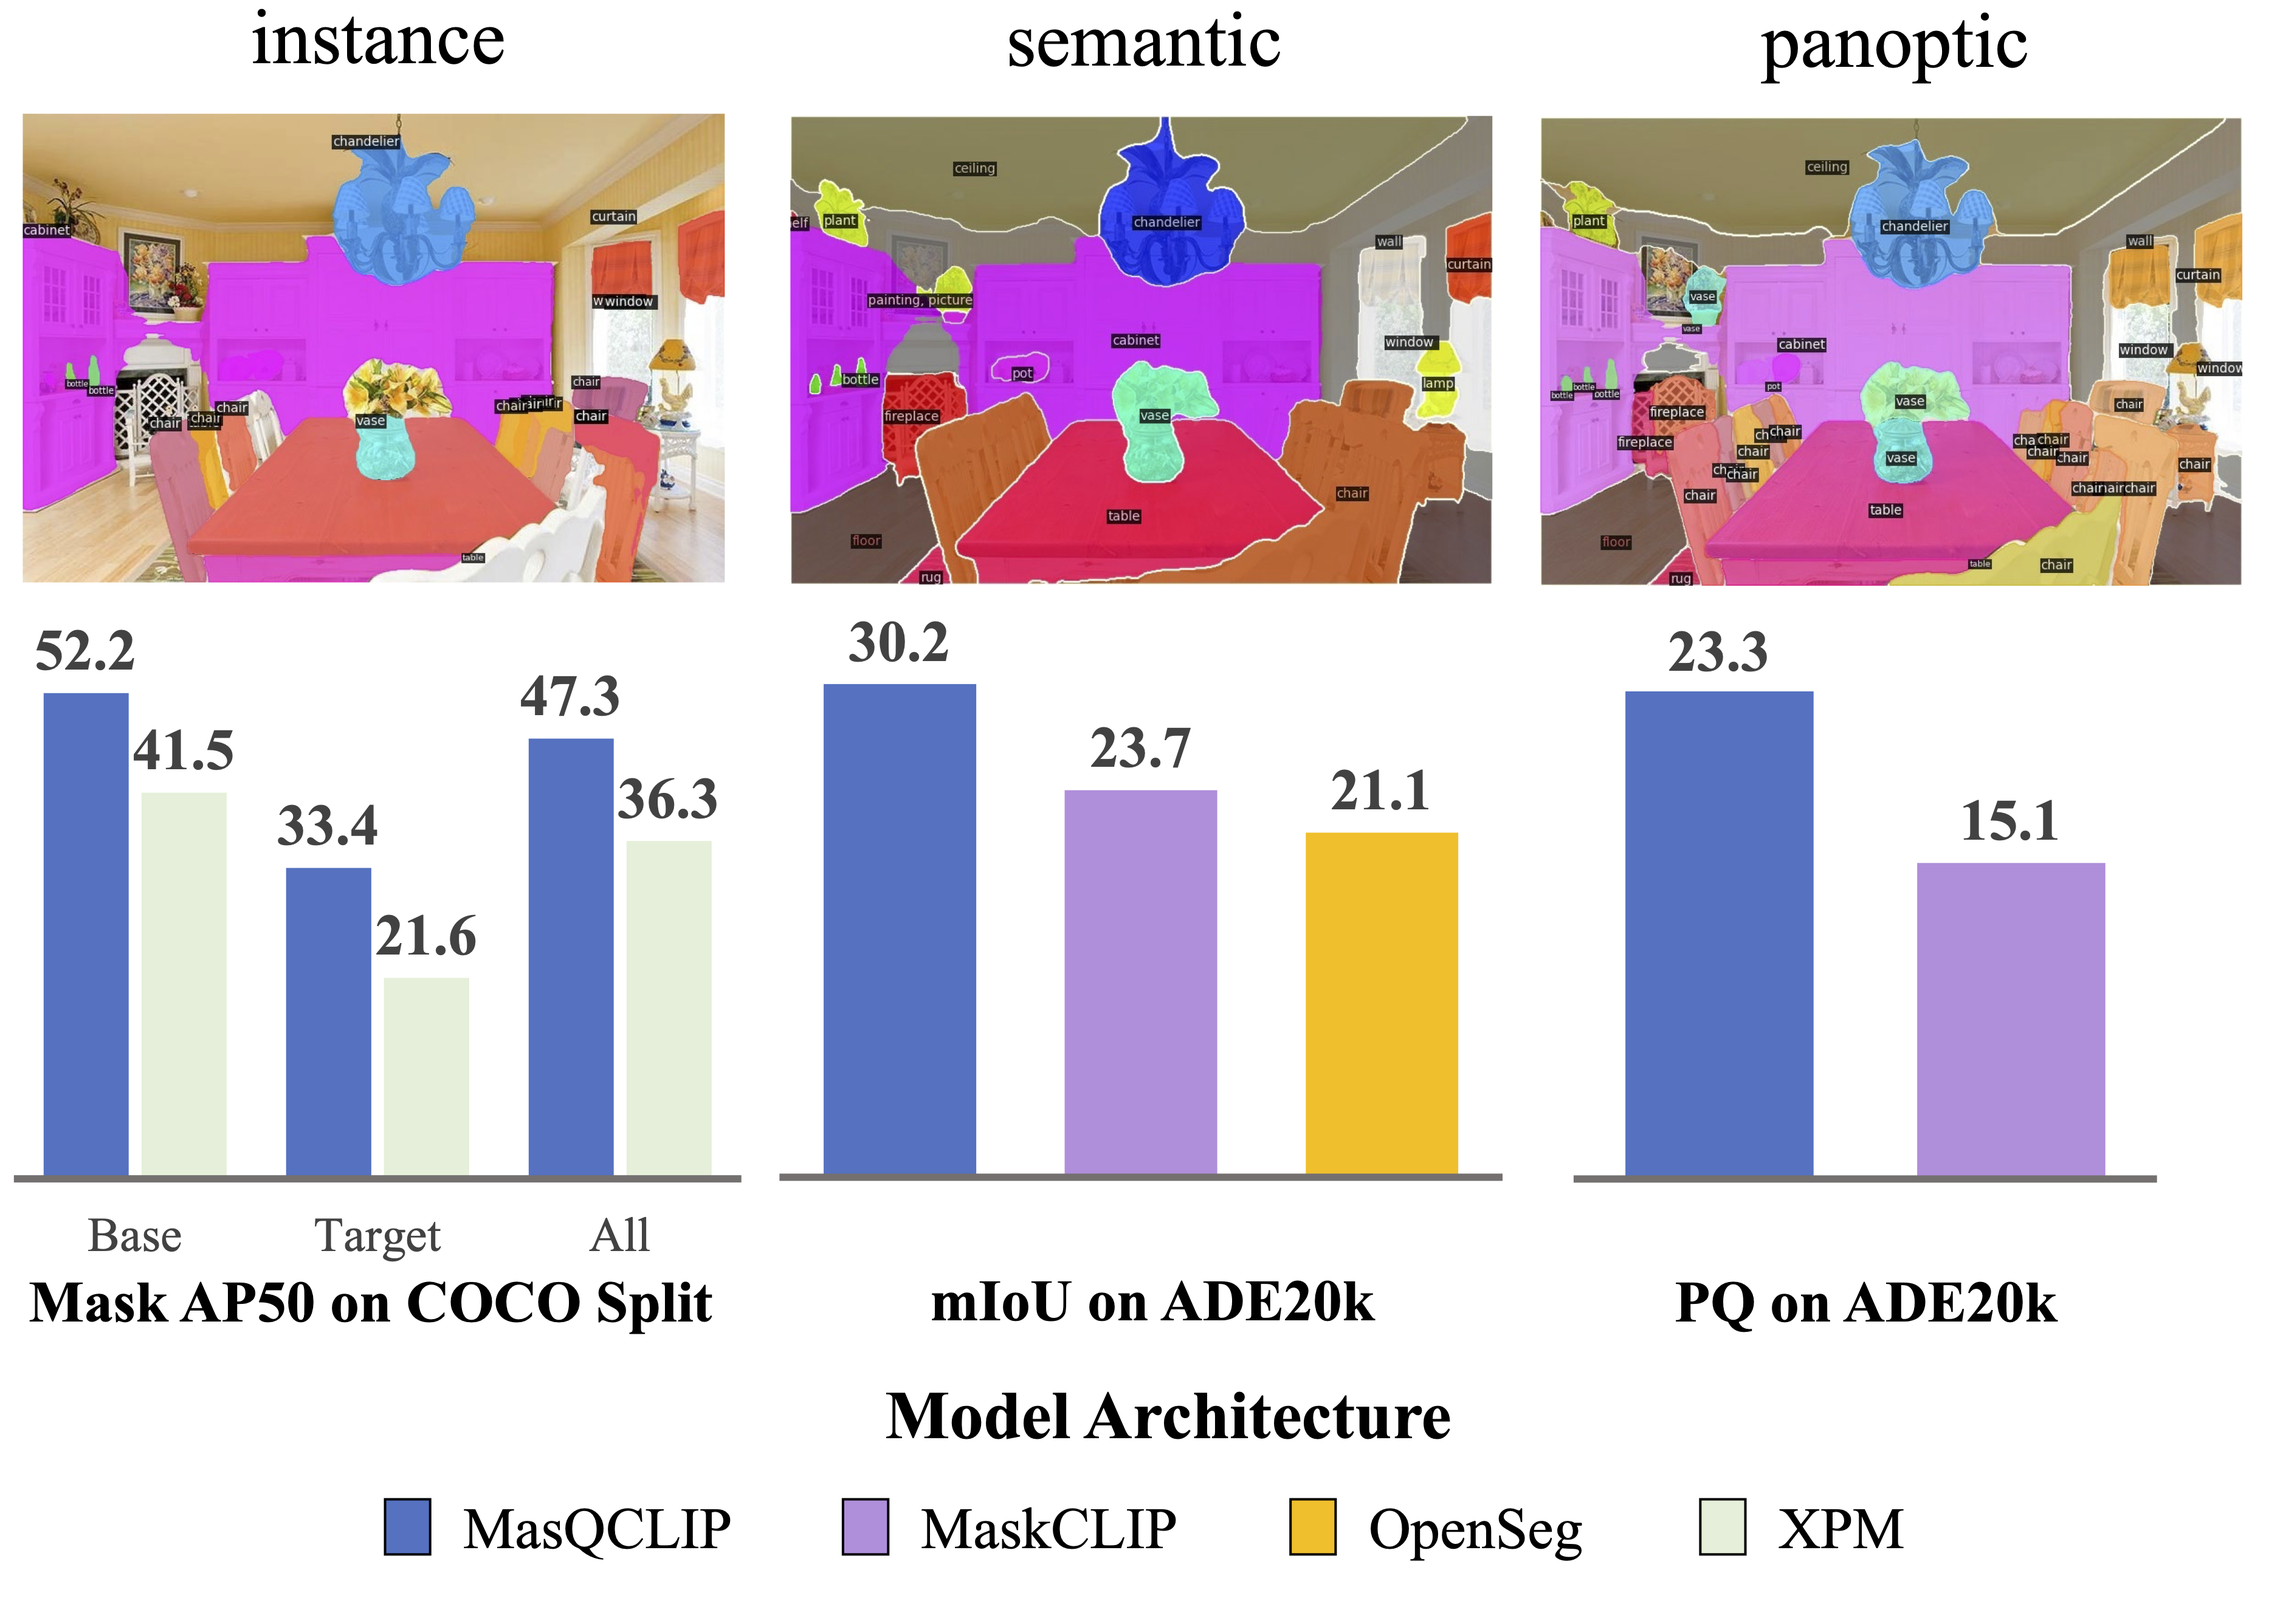
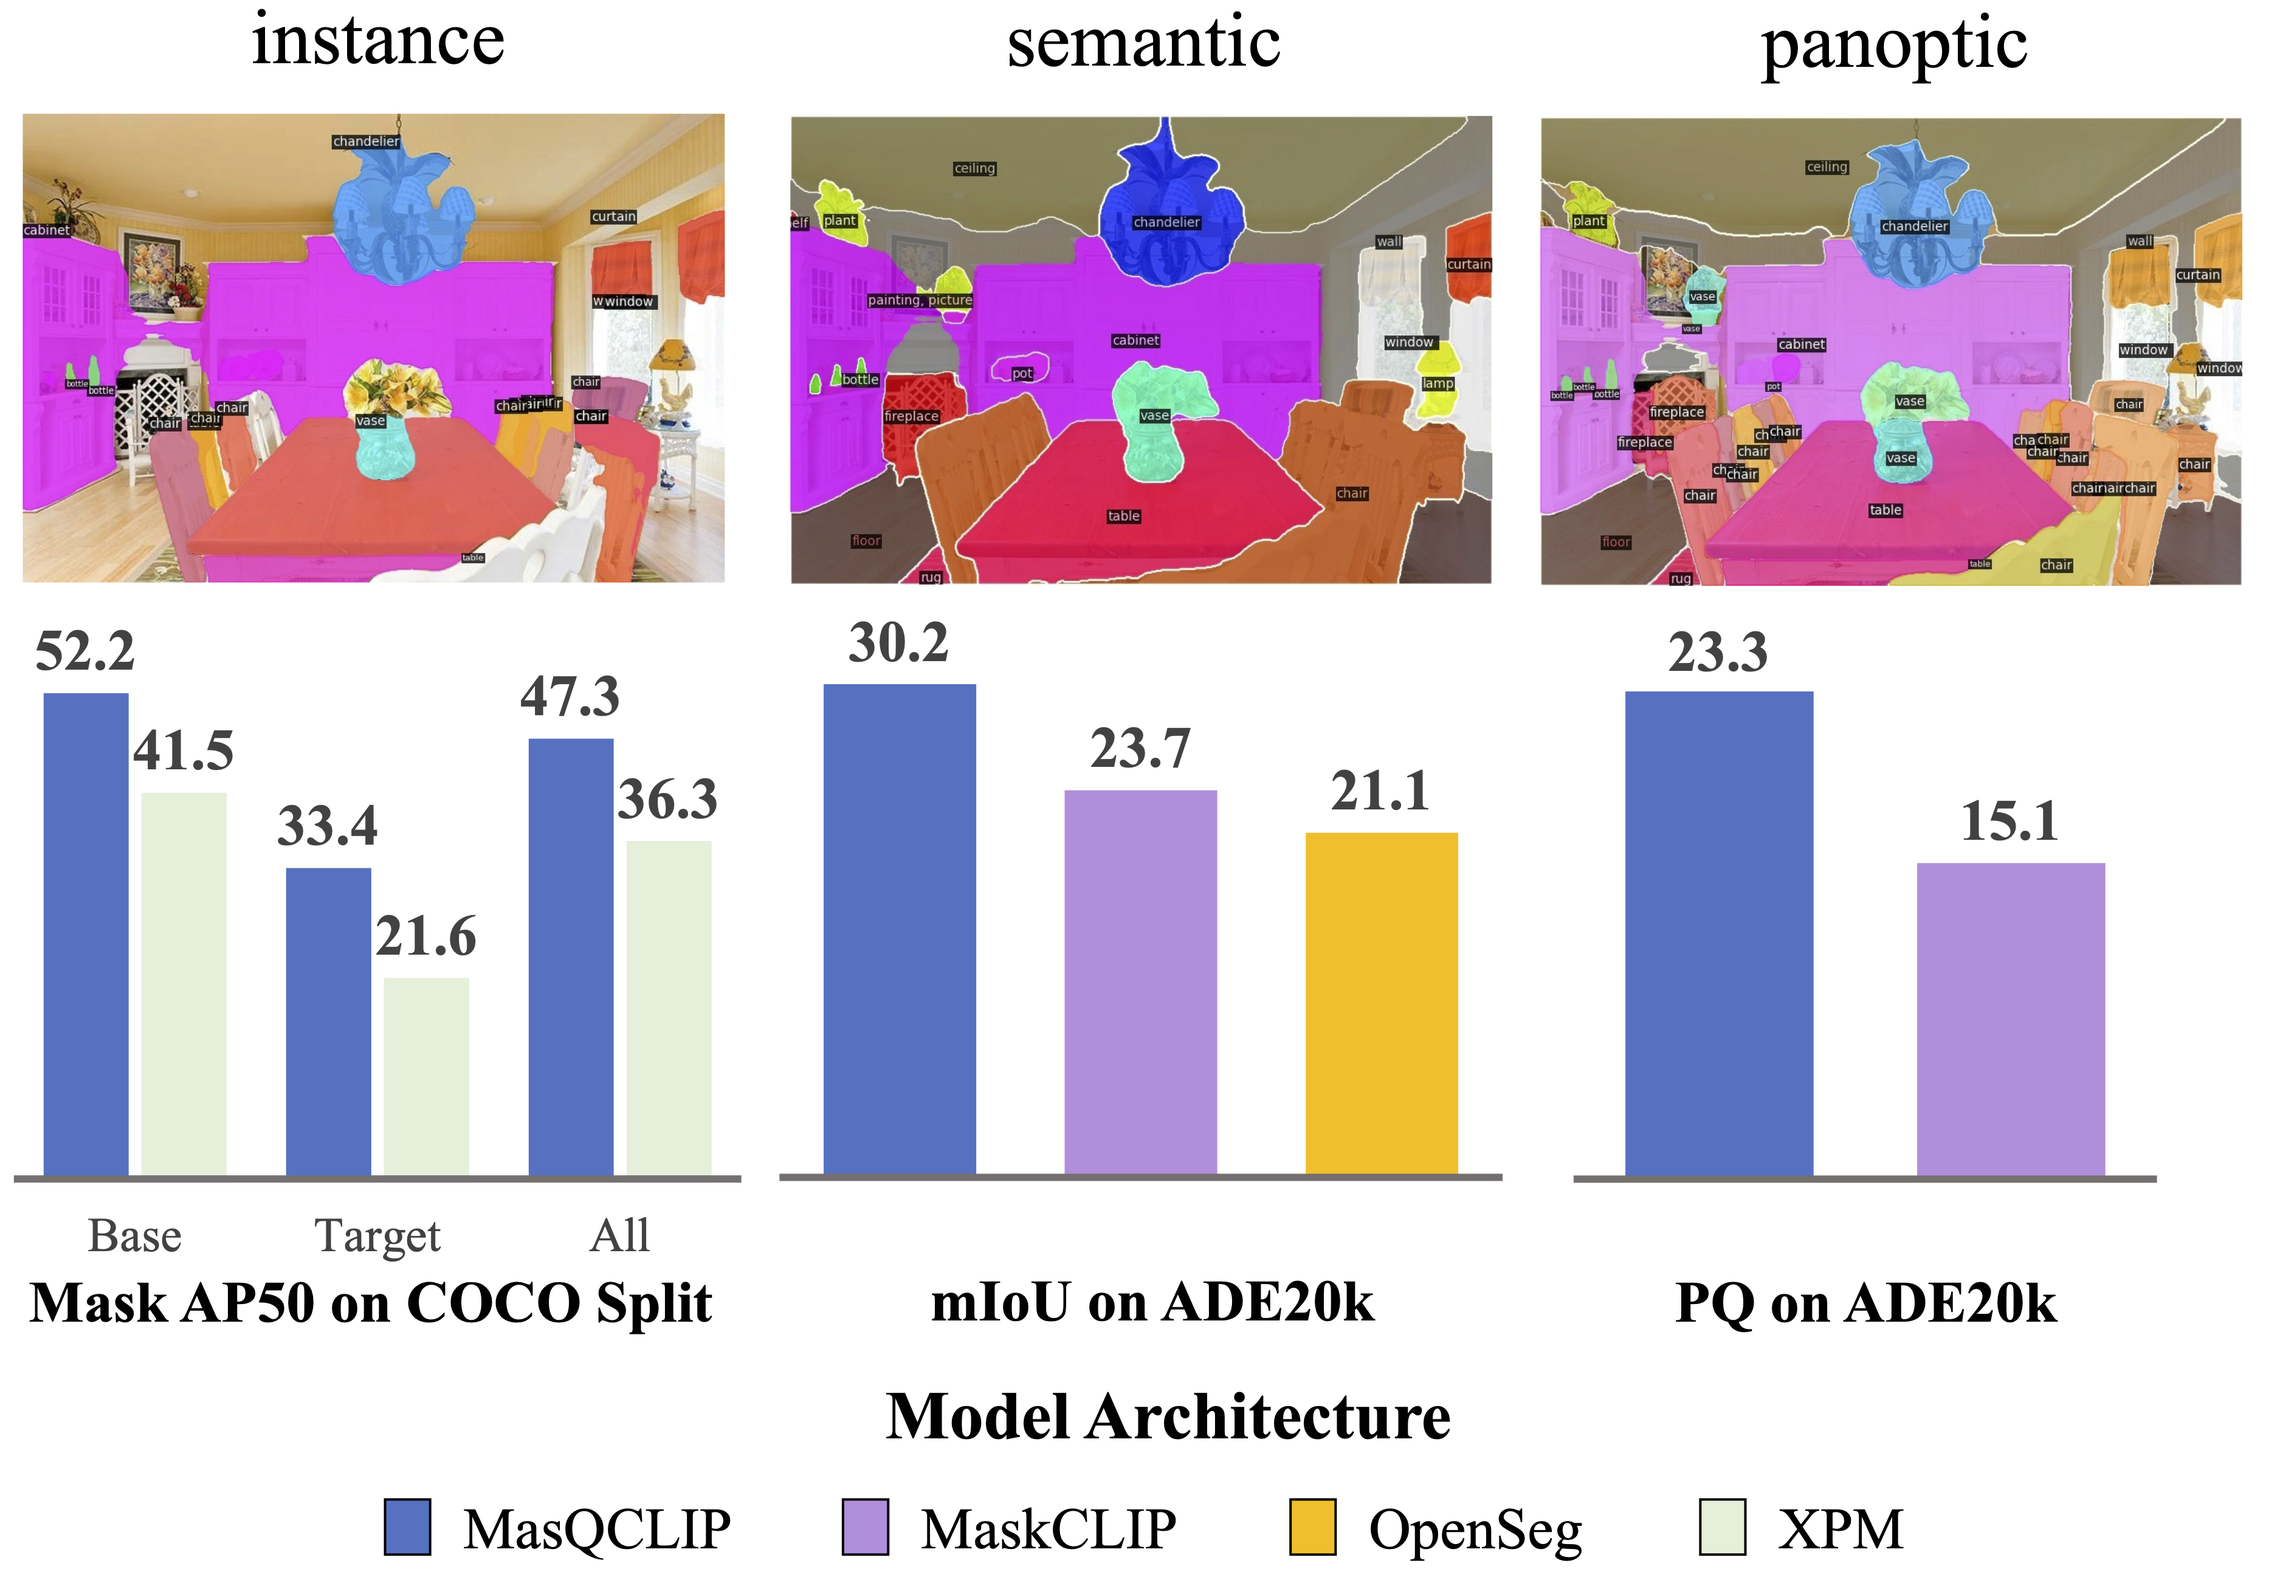
modify teaser width

diff --git a/index.html b/index.html
@@ -127,7 +127,7 @@
                 <!-- <div class="content has-text-justified" style="font-size:20px;">
                   With a unified framework, MasQCLIP achieves substantial performance gain across all three open-vocabulary segmentation tasks.
                 </div> -->
-                <img src="./static/images/teaser.png" style="width: 80%; margin-top: 8px; margin-bottom: 0px;"/>
+                <img src="./static/images/teaser.png" style="width: 80%; margin-top: 12px; margin-bottom: 0px;"/>
               <!-- </div> -->
             </div>
 
